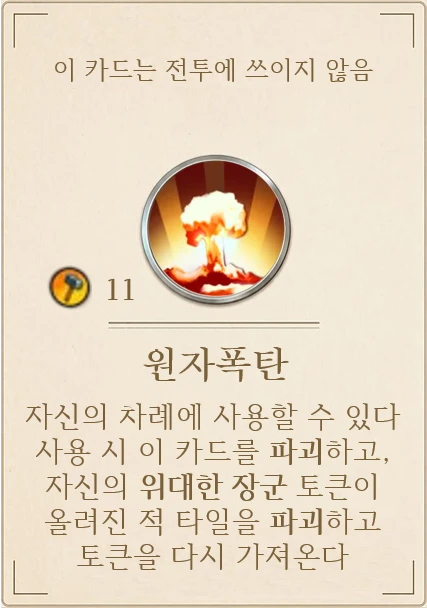
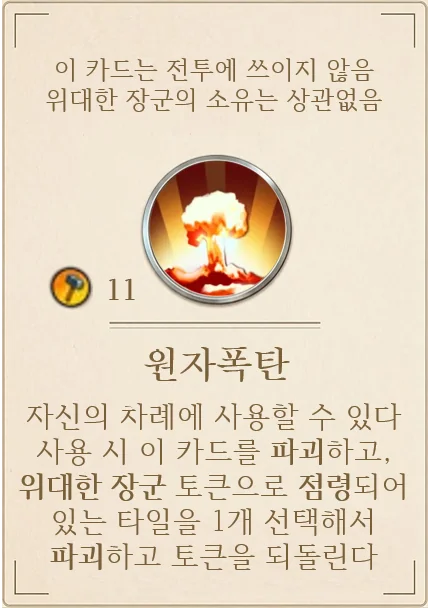
원자폭탄 카드 수정: 장군의 소유와 상관없이 장군이 점령 중인 타일 1개를 파괴하고 토큰을 되돌린다
- 사용자 결정(카드 수정): "위대한 장군의 소유는 상관없음 … 위대한 장군 토큰으로 점령되어 있는 타일을 1개 선택해서
  파괴하고 토큰을 되돌린다". 토큰은 그 장군의 주인에게 돌아간다. 내 영토를 점령 중인 상대 장군의 타일도 고를 수 있다.
- 스웨덴이 일꾼처럼 올린 장군은 점령이 아니라 대상이 아니다 (사용자 설명).
- 파괴된 타일에 몽골이 올린 일꾼도 내려온다.
- 원자폭탄 카드 그림 교체, 원자폭탄 창(누구의 장군인지 표시), 자동 넘기기 판정, 카드 설명, 규칙서, open-questions 44번, 테스트.

Claude-Session: https://claude.ai/code/session_01LEwiRiXRJPjckZxHM1aEbm

diff --git a/src/ui/panels/AtomicBombPanel.tsx b/src/ui/panels/AtomicBombPanel.tsx
@@ -6,7 +6,8 @@ import type { PanelProps } from './types'
 
 /**
  * 원자폭탄 카드를 가졌다면 자신의 차례 어느 단계에서든 쓸 수 있다 (만리장성처럼 항상 보이는 버튼).
- * 사용을 누르면 내 장군이 점령 중인 상대 타일 가운데 하나를 고르고, 격발하면 그 타일이 사라진다.
+ * 사용을 누르면 위대한 장군이 점령 중인 타일(장군의 주인은 상관없음) 가운데 하나를 고르고, 격발하면 그 타일이 사라지고 장군은 주인에게 돌아간다.
+ * 스웨덴이 일꾼처럼 올린 장군은 점령이 아니라 고를 수 없다.
  * 첫 5타일의 사면도 파괴할 수 있다 (그 면은 빈 면이 된다). 도시 타일에는 장군을 올릴 수 없으므로 파괴할 수 없다.
  */
 export function AtomicBombPanel({ game, player, dispatch }: PanelProps) {
@@ -14,7 +15,7 @@ export function AtomicBombPanel({ game, player, dispatch }: PanelProps) {
   const [sel, setSel] = useState<string | null>(null)
   if (!player.military.some((c) => c.defId === 'atomic_bomb')) return null
   const occupied = game.players.flatMap((o) =>
-    o.id === player.id ? [] : o.cities.flatMap((c) => c.tiles.filter((t) => t.occupiedBy === player.id && t.role !== 'city').map((t) => ({ o, c, t, ok: true }))),
+    o.cities.flatMap((c) => c.tiles.filter((t) => t.occupiedBy !== undefined && t.role !== 'city').map((t) => ({ o, c, t, by: game.players[t.occupiedBy!], ok: true }))),
   )
   const key = (x: { o: { id: number }; c: { id: number }; t: { card: { id: number } } }) => `${x.o.id}:${x.c.id}:${x.t.card.id}`
   const chosen = occupied.find((x) => key(x) === sel)
@@ -31,16 +32,16 @@ export function AtomicBombPanel({ game, player, dispatch }: PanelProps) {
           <button
             disabled={!canUse}
             onClick={() => setOpen(true)}
-            title={canUse ? '내 장군이 점령 중인 상대 타일 하나를 파괴합니다' : '내 장군이 점령 중인 상대 타일이 없어 쓸 수 없습니다'}
+            title={canUse ? '위대한 장군이 점령 중인 타일 하나를 파괴합니다 (장군의 주인은 상관없음)' : '위대한 장군이 점령 중인 타일이 없어 쓸 수 없습니다'}
           >
             ☢ 원자폭탄 사용
           </button>
-          {!canUse && <small className="muted">점령 중인 상대 타일이 없어 아직 쓸 수 없습니다.</small>}
+          {!canUse && <small className="muted">위대한 장군이 점령 중인 타일이 없어 아직 쓸 수 없습니다.</small>}
         </div>
       ) : (
         <>
           <h3>☢ 원자폭탄: 파괴할 타일을 고르세요</h3>
-          <p className="muted">내 장군이 점령 중인 타일만 고를 수 있습니다. 첫 5타일의 사면도 파괴할 수 있습니다(십자의 빈 면은 다음 문화 타일이 메웁니다). 도시 타일은 장군을 올릴 수 없어 파괴할 수 없습니다. 격발하면 장군은 돌아오고 카드는 사라집니다.</p>
+          <p className="muted">위대한 장군이 점령 중인 타일만 고를 수 있습니다 (누구의 장군이든, 내 영토여도). 첫 5타일의 사면도 파괴할 수 있습니다(십자의 빈 면은 다음 문화 타일이 메웁니다). 도시 타일은 장군을 올릴 수 없어 파괴할 수 없습니다. 격발하면 점령 중이던 장군은 주인에게 돌아가고 카드는 사라집니다.</p>
           <div className="atomic-tiles">
             {occupied.map((x) => (
               <div key={key(x)} className="atomic-pick">
@@ -53,8 +54,8 @@ export function AtomicBombPanel({ game, player, dispatch }: PanelProps) {
                   onClick={x.ok ? () => setSel(key(x)) : undefined}
                 />
                 <small className="muted">
-                  {civById(x.o.civId).name} 도시 {x.c.id + 1}
-                  {x.t.role === 'side' ? ' · 첫 5타일' : ''}
+                  {x.o.id === player.id ? '내 ' : `${civById(x.o.civId).name} `}도시 {x.c.id + 1}
+                  {x.t.role === 'side' ? ' · 첫 5타일' : ''} · {x.by.id === player.id ? '내 장군' : `${civById(x.by.civId).name} 장군`}
                 </small>
               </div>
             ))}
@@ -63,14 +64,14 @@ export function AtomicBombPanel({ game, player, dispatch }: PanelProps) {
             <ConfirmButton
               className="primary"
               disabled={!chosen}
-              warn={chosen ? `${civById(chosen.o.civId).name}의 ${chosen.t.card.terrains.join('·') || '자연경관'} 타일을 파괴합니다. 되돌릴 수 없습니다.` : null}
+              warn={chosen ? `${chosen.o.id === player.id ? '내' : `${civById(chosen.o.civId).name}의`} ${chosen.t.card.terrains.join('·') || '자연경관'} 타일을 파괴합니다. ${chosen.by.id === player.id ? '내' : `${civById(chosen.by.civId).name}`} 장군은 주인에게 돌아갑니다. 되돌릴 수 없습니다.` : null}
               onClick={() => {
                 if (!chosen) return
                 dispatch({ type: 'useAtomicBomb', defenderId: chosen.o.id, cityId: chosen.c.id, tileId: chosen.t.card.id })
                 close()
               }}
             >
-              ☢ 격발 {chosen ? `(${civById(chosen.o.civId).name} 도시 ${chosen.c.id + 1} 타일 삭제)` : '(타일을 먼저 고르세요)'}
+              ☢ 격발 {chosen ? `(${chosen.o.id === player.id ? '내' : civById(chosen.o.civId).name} 도시 ${chosen.c.id + 1} 타일 삭제)` : '(타일을 먼저 고르세요)'}
             </ConfirmButton>
             <button onClick={close}>취소</button>
           </div>

diff --git a/src/engine/__tests__/stage3.test.ts b/src/engine/__tests__/stage3.test.ts
@@ -911,6 +911,50 @@ describe('도시 공격·탈환·탈락', () => {
     expect(s.players[0].military.some((c) => c.defId === 'atomic_bomb')).toBe(false)
   })
 
+  it('원자폭탄은 장군의 주인과 상관없이 장군이 점령 중인 타일을 파괴하고, 그 장군은 주인에게 돌아간다', () => {
+    let s = round2(['korea', 'russia', 'china'], [hand4(), hand4(), hand4()])
+    s = mod(s, (c) => {
+      const city = c.players[1].cities[0]
+      city.tiles.push({ card: tile(['평지']), role: 'extra' })
+      city.tiles.at(-1)!.occupiedBy = 2 // 중국 장군이 러시아 타일을 점령
+      c.players[0].cities[0].tiles.push({ card: tile(['평지']), role: 'extra', occupiedBy: 1 }) // 러시아 장군이 한국 타일을 점령
+      c.players[2].generals = 0
+      c.players[1].generals = 0
+      give(c, 0, 'atomic_bomb')
+      give(c, 0, 'atomic_bomb')
+    })
+    const russiaTile = s.players[1].cities[0].tiles.at(-1)!.card.id
+    s = apply(s, { type: 'useAtomicBomb', defenderId: 1, cityId: 0, tileId: russiaTile })
+    expect(s.players[1].cities[0].tiles.some((t) => t.card.id === russiaTile)).toBe(false)
+    expect(s.players[2].generals).toBe(1) // 중국 장군이 돌아간다
+    expect(s.players[0].generals).toBe(0)
+    // 내 영토를 점령 중인 상대 장군도 대상이 된다
+    const myTile = s.players[0].cities[0].tiles.at(-1)!.card.id
+    s = apply(s, { type: 'useAtomicBomb', defenderId: 0, cityId: 0, tileId: myTile })
+    expect(s.players[0].cities[0].tiles.some((t) => t.card.id === myTile)).toBe(false)
+    expect(s.players[1].generals).toBe(1)
+    expect(s.players[0].military.some((c) => c.defId === 'atomic_bomb')).toBe(false)
+  })
+
+  it('원자폭탄은 스웨덴이 일꾼처럼 장군을 올린 타일은 파괴할 수 없다 (점령이 아님)', () => {
+    let s = round2(['sweden', 'russia'], [hand4(), hand4()])
+    s = mod(s, (c) => {
+      c.players[0].generals = 1
+      give(c, 1, 'atomic_bomb')
+    })
+    const sweden = s.players.find((p) => p.civId === 'sweden')!
+    const tileIdOf = sweden.cities[0].tiles.find((t) => t.role !== 'city')!.card.id
+    s = mod(s, (c) => {
+      const sw = c.players[sweden.id]
+      sw.generalWorkers = 1
+      sw.cities[0].placed = [tileIdOf]
+    })
+    const russia = s.players.find((p) => p.civId === 'russia')!
+    expect(sweden.cities[0].tiles.every((t) => t.occupiedBy === undefined)).toBe(true)
+    s = mod(s, (c) => (c.turnIdx = c.order.indexOf(russia.id)))
+    expect(() => apply(s, { type: 'useAtomicBomb', defenderId: sweden.id, cityId: 0, tileId: tileIdOf })).toThrow(/위대한 장군이 점령 중인 타일만/)
+  })
+
   it('원자폭탄은 첫 5타일(사면)도 파괴할 수 있고, 그 면은 빈 면이 되어 다음 문화 타일이 붙는다', () => {
     let s = round2()
     s = mod(s, (c) => {

diff --git a/src/engine/war.ts b/src/engine/war.ts
@@ -597,25 +597,32 @@ export function checkCultureDefeats(s: GameState): void {
   }
 }
 
-/** 원자폭탄: 내 차례에 사용해, 내 장군이 올라간 상대 타일을 파괴하고 장군을 돌려받는다. 첫 5타일(사면)도 파괴할 수 있다. 도시 타일에는 장군을 올릴 수 없으므로 파괴할 수 없다. */
+/**
+ * 원자폭탄: 내 차례에 사용해, 위대한 장군이 점령 중인 타일 1개를 파괴하고 그 장군을 주인에게 돌려보낸다.
+ * 장군의 주인은 상관없다 (사용자 결정, 카드 수정). 첫 5타일(사면)도 파괴할 수 있다. 도시 타일에는 장군을 올릴 수 없으므로 파괴할 수 없다.
+ */
 export function detonateAtomicBomb(s: GameState, p: Player, a: { defenderId: number; cityId: number; tileId: number }): void {
   const bomb = p.military.find((c) => c.defId === 'atomic_bomb')
   if (!bomb) throw new RuleError('원자폭탄 카드가 없습니다')
   const def = s.players[a.defenderId]
   const found = def && findTile(def, a.cityId, a.tileId)
   if (!def || def.eliminated || !found) throw new RuleError('대상 타일이 없습니다')
-  if (found.tile.occupiedBy !== p.id) throw new RuleError('내 장군이 올라간 타일만 파괴할 수 있습니다')
+  const occupier = found.tile.occupiedBy
+  // 어느 문명의 장군이든 점령 중인 타일이면 된다 (스웨덴이 일꾼처럼 올린 장군은 점령이 아니라 해당 없음)
+  if (occupier === undefined) throw new RuleError('위대한 장군이 점령 중인 타일만 파괴할 수 있습니다')
   const { tile, city } = found
   if (tile.role === 'city') throw new RuleError('도시 타일에는 장군을 올릴 수 없어 원자폭탄으로 파괴할 수 없습니다')
   city.tiles = city.tiles.filter((t) => t !== tile)
   city.placed = city.placed.filter((id) => id !== a.tileId)
+  // 몽골이 이 타일에 올린 일꾼도 내려온다
+  for (const o of s.players) for (const c of o.cities) c.enemyPlaced = c.enemyPlaced?.filter((e) => !(e.playerId === def.id && e.tileId === a.tileId))
   if (tile.role === 'side' && tile.side) {
     // 십자의 빈 면이 되살아난다: 다음에 얻는 문화 타일은 반드시 그 면에 붙는다
     city.openSides = SIDES.filter((x) => x === tile.side || city.openSides.includes(x))
   }
-  p.generals += 1
+  s.players[occupier].generals += 1 // 점령 중이던 장군은 주인에게 돌아간다
   p.military = p.military.filter((c) => c.uid !== bomb.uid)
-  say(s, `${civById(p.civId).name} 원자폭탄 → ${civById(def.civId).name} 타일 파괴`)
+  say(s, `${civById(p.civId).name} 원자폭탄 → ${civById(def.civId).name} 타일 파괴 (${civById(s.players[occupier].civId).name} 장군이 돌아감)`)
 }
 
 /** 만리장성: 게임 중 1번, 내 영토 위의 상대 장군을 모두 돌려보낸다. */

diff --git a/src/ui/__tests__/atomicBomb.test.tsx b/src/ui/__tests__/atomicBomb.test.tsx
@@ -25,7 +25,7 @@ describe('원자폭탄 사용 버튼', () => {
     expect(render(base())).toBe('')
   })
 
-  it('카드가 있어도 점령 중인 상대 타일이 없으면 눌 수 없다', () => {
+  it('카드가 있어도 장군이 점령 중인 타일이 없으면 눌 수 없다', () => {
     const s = base()
     s.players[0].military.push({ uid: 1, defId: 'atomic_bomb' })
     const html = render(s)
@@ -40,6 +40,13 @@ describe('원자폭탄 사용 버튼', () => {
     const html = render(s)
     expect(html).toContain('원자폭탄 사용')
     expect(html).not.toMatch(/<button[^>]*disabled/)
+  })
+
+  it('다른 문명의 장군이 점령 중인 타일이어도 눌 수 있다 (장군의 주인은 상관없음)', () => {
+    const s = base()
+    s.players[0].military.push({ uid: 1, defId: 'atomic_bomb' })
+    s.players[0].cities[0].tiles.push({ card: { id: 9004, terrains: ['숲'] }, role: 'extra', occupiedBy: 1 }) // 러시아 장군이 내 타일을 점령
+    expect(render(s)).not.toMatch(/<button[^>]*disabled/)
   })
 
   it('도시 타일은 고를 수 없다 (도시 타일에는 장군을 올릴 수 없다)', () => {

diff --git a/src/ui/autoSkip.ts b/src/ui/autoSkip.ts
@@ -77,7 +77,7 @@ export function autoSkipAction(game: GameState, p: Player): { action: Action; re
     if (p.cities.some((c) => !t.produced.includes(c.id) && cityCanProduce(game, p, c.id))) return null
     if (!t.upgraded && p.military.some((c) => upgradeTargets(p, c).some((u) => cardCost(p, u) <= t.yields.gold))) return null
     if (occupiedTiles(game, p).length > 0) return null // 점령 중인 장군은 원하는 만큼 불러들일 수 있다
-    const bombTargets = game.players.some((o) => o.id !== p.id && o.cities.some((c) => c.tiles.some((t) => t.occupiedBy === p.id)))
+    const bombTargets = game.players.some((o) => o.cities.some((c) => c.tiles.some((t) => t.occupiedBy !== undefined && t.role !== 'city')))
     if (p.military.some((c) => c.defId === 'atomic_bomb') && bombTargets) return null
     const enemyGenerals = p.cities.some((c) => c.tiles.some((t) => t.occupiedBy !== undefined && t.occupiedBy !== p.id))
     if (p.wonders.includes('great_wall') && !p.greatWallUsed && enemyGenerals) return null

diff --git a/docs/open-questions.md b/docs/open-questions.md
@@ -48,6 +48,7 @@
 | 41 | 원자폭탄이 첫 5타일도 파괴할 수 있게 된 뒤의 처리 | 사용자 결정: 첫 5타일도 파괴할 수 있다. 사면을 파괴하면 그 면이 다시 빈 면이 되고 다음 문화 타일이 반드시 그 면에 붙음. ~~도시 타일은 도시 파괴로 처리~~ → **해결(사용자 설명)**: 원자폭탄은 장군이 올라간 타일만 파괴할 수 있는데 도시 타일에는 장군을 올려 점령할 수 없으므로 도시 타일은 파괴할 수 없다 (`detonateAtomicBomb`이 거부, 화면도 고를 수 없음) |
 | 42 | 정복으로 첫 도시를 파괴해 탈락시켰을 때 탈락자의 위대한 장군 | 사용자 결정(규칙 변경): 탈락시킨 문명이 탈락자의 장군 토큰을 모두 가진다. 타일을 점령 중이던 장군도 그 상태 그대로 소유권이 넘어간다. 구현 해석: ① "가질 수 있습니다"는 자동으로 얻는 것으로 처리 ② 손에 든 장군·돌아오는 중인 장군·그 라운드 선전포고에 건 장군은 정복자의 손으로 ③ 정복자 자신의 타일을 점령 중이던 장군은 점령을 풀고 손으로 ④ 문화 패배로 탈락하면 지금처럼 사라짐 (`eliminate`의 `conquerorId`) |
 | 43 | 정복 승리 조건과 도시 공격 자격 | 사용자 결정(규칙 변경): ① 정복으로 문명을 2개 이상 탈락시키면 (다른 문명이 남아 있어도) 정복 승리. 2인전처럼 마지막 상대를 정복으로 탈락시켜도 정복 승리 (사용자 확인) ② 도시 타일을 둘러싼 위대한 장군 토큰을 가장 많이 보유한 문명만 도시 타일에 선전포고할 수 있다. 공동이면 모두 가능 (사면이 모두 점령되어야 하는 조건은 그대로, 막타 방지. 처음의 "2개 이상"을 대체). 구현: `cityAttackLeaders`, `CONQUEST_WIN`, `Player.conquests` |
+| 44 | 원자폭탄 대상 (카드 수정) | 사용자 결정: 위대한 장군의 소유는 상관없이, 장군 토큰으로 점령되어 있는 타일 1개를 파괴하고 토큰을 되돌린다. 스웨덴이 일꾼처럼 올린 장군은 점령이 아니라 해당 없음. 구현 해석: 토큰은 그 장군의 주인에게 돌아간다. 내 영토를 점령 중인 상대 장군의 타일도 고를 수 있다 (카드 문구에 제외가 없음) — 확인 필요 |
 
 ## 공개 범위 (설계 결정)
 - 공개: 타일·기술·정책·불가사의·군사 카드 **장수**, 로그에 남는 "무엇을 생산·승급했는지".

diff --git a/docs/rules.md b/docs/rules.md
@@ -636,11 +636,14 @@
 
 -   대전차포: 상대 탱크는 반드시 대전차포를 공격 대상으로 골라야 합니다.
 
--   원자폭탄: 전투에 쓰지 않습니다. 내 차례에 사용해, 내 장군이 올라간
-    상대 타일을 파괴하고 장군을 돌려받습니다. 첫 5타일도 파괴할 수
-    있습니다. 도시 타일에는 장군을 올릴 수 없으므로 원자폭탄으로 파괴할 수
-    없습니다. (구현: 사면 중 하나를 파괴하면 그 면이 빈 면이 되어 다음 문화
-    타일이 그 면에 붙습니다.)
+-   원자폭탄: 전투에 쓰지 않습니다. 위대한 장군의 소유는 상관없습니다.
+    자신의 차례에 사용할 수 있고, 사용 시 이 카드를 파괴하고, 위대한 장군
+    토큰으로 점령되어 있는 타일을 1개 선택해서 파괴하고 토큰을 되돌립니다.
+    **(카드 수정, 사용자 결정)** 스웨덴이 일꾼처럼 올린 장군은 점령이 아니라
+    대상이 아닙니다. 첫 5타일도 파괴할 수 있습니다. 도시 타일에는 장군을 올릴
+    수 없으므로 원자폭탄으로 파괴할 수 없습니다. (구현: 토큰은 그 장군의 주인에게
+    돌아갑니다. 내 영토를 점령 중인 상대 장군의 타일도 고를 수 있습니다. 사면 중
+    하나를 파괴하면 그 면이 빈 면이 되어 다음 문화 타일이 그 면에 붙습니다.)
 
 11. 두 번째 도시
 
